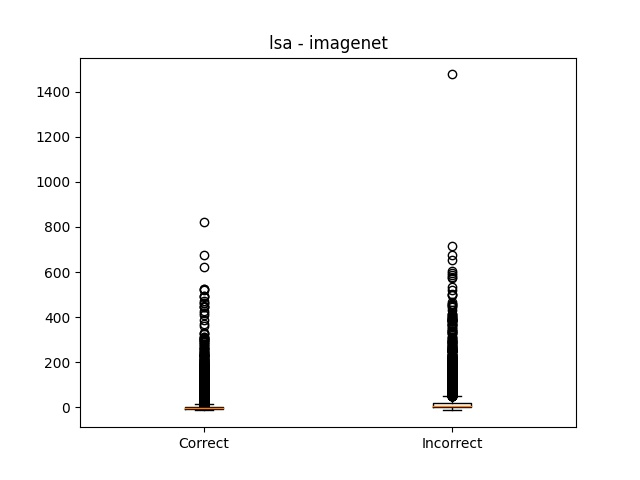
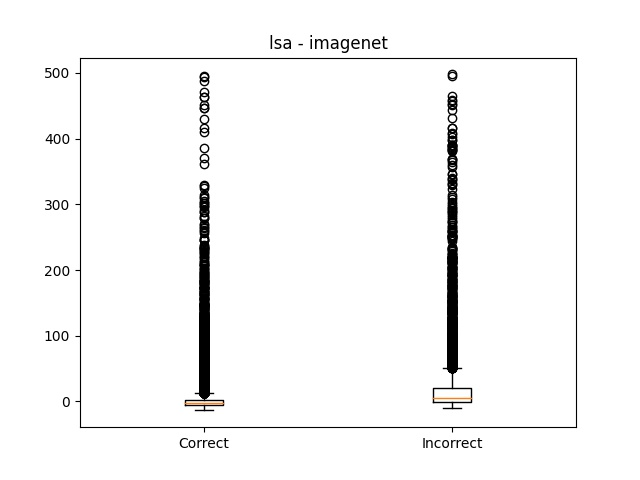
add files

diff --git a/box_plot.py b/box_plot.py
@@ -28,6 +28,12 @@ def box_plot_metrics(binary_predicted_true, score, args):
                     correct.append(s)
                 else:
                     incorrect.append(s)
+        elif args.d == 'imagenet' and args.lsa:
+            if s <= 500:
+                if b == 1:
+                    correct.append(s)
+                else:
+                    incorrect.append(s)
         else:
             if b == 1:
                 correct.append(s)
